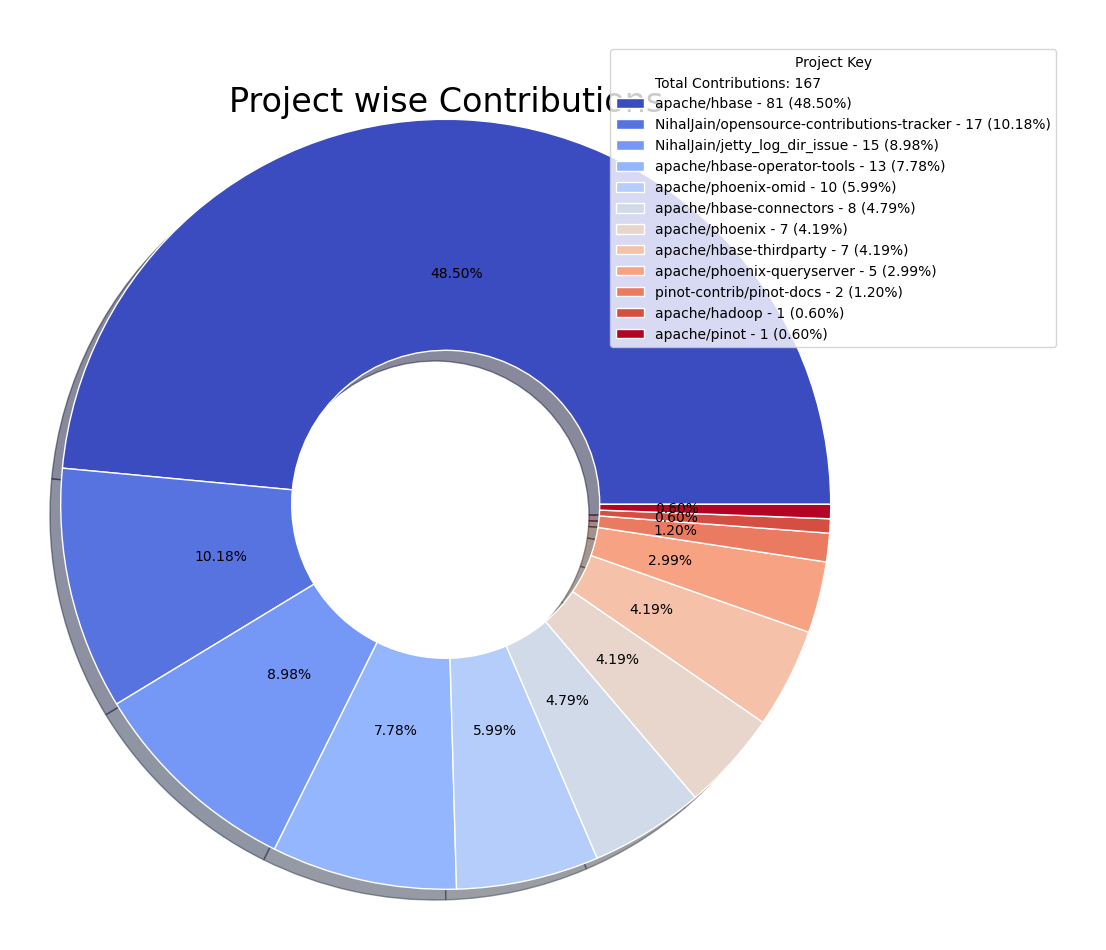
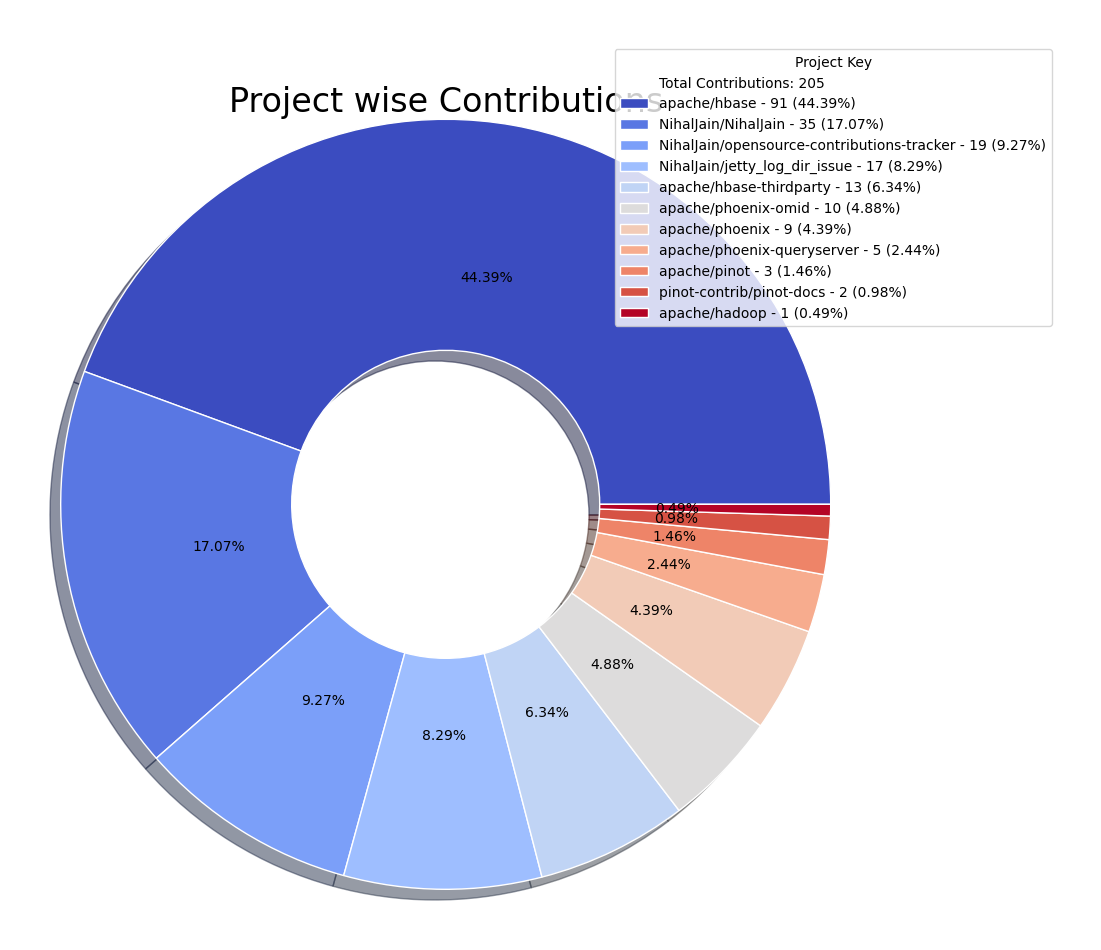
Run workflow and update to latest reports

diff --git a/output/github_contributions_report.md b/output/github_contributions_report.md
@@ -1,16 +1,16 @@
 # OpenSource Contributions Report
 
-Report auto-generated on: 2025-04-05 13:15:00
+Report auto-generated on: 2025-05-22 20:25:43
 
 ## Overall Summary
 
 | Metric | Value |
 |--------|-------|
-| Total number of projects | 12 |
-| Total number of repositories | 12 |
-| Total number of contributions | 167 |
-| Number of commits | 157 |
-| Number of pull requests (Open) | 10 |
+| Total number of projects | 11 |
+| Total number of repositories | 11 |
+| Total number of contributions | 205 |
+| Number of commits | 183 |
+| Number of pull requests (Open) | 22 |
 
 <div style="display: flex; justify-content: space-around;">
   <img src="project_wise_contribution.png" alt="Project wise Contributions" style="width:45%;">
@@ -21,38 +21,36 @@ Report auto-generated on: 2025-04-05 13:15:00
 
 | Project Key | Repositories | Users | Commits | Pull Requests (Open) | Overall Contribution |
 |--------------|--------------|-------|---------|----------------------|----------------------|
-| apache/hbase | <img src='https://avatars.githubusercontent.com/u/47359?v=4' width='12' height='12'> [apache/hbase](https://github.com/apache/hbase) | <img src='https://avatars.githubusercontent.com/u/3429351?v=4' width='12' height='12'> [Nihal Jain](https://github.com/NihalJain) | 76 | 5 | 81 |
-| NihalJain/opensource-contributions-tracker | <img src='https://avatars.githubusercontent.com/u/3429351?v=4' width='12' height='12'> [NihalJain/opensource-contributions-tracker](https://github.com/NihalJain/opensource-contributions-tracker) | <img src='https://avatars.githubusercontent.com/u/3429351?v=4' width='12' height='12'> [Nihal Jain](https://github.com/NihalJain) | 17 | 0 | 17 |
-| NihalJain/jetty_log_dir_issue | <img src='https://avatars.githubusercontent.com/u/3429351?v=4' width='12' height='12'> [NihalJain/jetty_log_dir_issue](https://github.com/NihalJain/jetty_log_dir_issue) | <img src='https://avatars.githubusercontent.com/u/3429351?v=4' width='12' height='12'> [Nihal Jain](https://github.com/NihalJain) | 15 | 0 | 15 |
-| apache/hbase-operator-tools | <img src='https://avatars.githubusercontent.com/u/47359?v=4' width='12' height='12'> [apache/hbase-operator-tools](https://github.com/apache/hbase-operator-tools) | <img src='https://avatars.githubusercontent.com/u/3429351?v=4' width='12' height='12'> [Nihal Jain](https://github.com/NihalJain) | 13 | 0 | 13 |
+| apache/hbase | <img src='https://avatars.githubusercontent.com/u/47359?v=4' width='12' height='12'> [apache/hbase](https://github.com/apache/hbase) | <img src='https://avatars.githubusercontent.com/u/3429351?v=4' width='12' height='12'> [Nihal Jain](https://github.com/NihalJain) | 77 | 14 | 91 |
+| NihalJain/NihalJain | <img src='https://avatars.githubusercontent.com/u/3429351?v=4' width='12' height='12'> [NihalJain/NihalJain](https://github.com/NihalJain/NihalJain) | <img src='https://avatars.githubusercontent.com/u/3429351?v=4' width='12' height='12'> [Nihal Jain](https://github.com/NihalJain) | 35 | 0 | 35 |
+| NihalJain/opensource-contributions-tracker | <img src='https://avatars.githubusercontent.com/u/3429351?v=4' width='12' height='12'> [NihalJain/opensource-contributions-tracker](https://github.com/NihalJain/opensource-contributions-tracker) | <img src='https://avatars.githubusercontent.com/u/3429351?v=4' width='12' height='12'> [Nihal Jain](https://github.com/NihalJain) | 18 | 1 | 19 |
+| NihalJain/jetty_log_dir_issue | <img src='https://avatars.githubusercontent.com/u/3429351?v=4' width='12' height='12'> [NihalJain/jetty_log_dir_issue](https://github.com/NihalJain/jetty_log_dir_issue) | <img src='https://avatars.githubusercontent.com/u/3429351?v=4' width='12' height='12'> [Nihal Jain](https://github.com/NihalJain) | 16 | 1 | 17 |
+| apache/hbase-thirdparty | <img src='https://avatars.githubusercontent.com/u/47359?v=4' width='12' height='12'> [apache/hbase-thirdparty](https://github.com/apache/hbase-thirdparty) | <img src='https://avatars.githubusercontent.com/u/3429351?v=4' width='12' height='12'> [Nihal Jain](https://github.com/NihalJain) | 12 | 1 | 13 |
 | apache/phoenix-omid | <img src='https://avatars.githubusercontent.com/u/47359?v=4' width='12' height='12'> [apache/phoenix-omid](https://github.com/apache/phoenix-omid) | <img src='https://avatars.githubusercontent.com/u/3429351?v=4' width='12' height='12'> [Nihal Jain](https://github.com/NihalJain) | 10 | 0 | 10 |
-| apache/hbase-connectors | <img src='https://avatars.githubusercontent.com/u/47359?v=4' width='12' height='12'> [apache/hbase-connectors](https://github.com/apache/hbase-connectors) | <img src='https://avatars.githubusercontent.com/u/3429351?v=4' width='12' height='12'> [Nihal Jain](https://github.com/NihalJain) | 7 | 1 | 8 |
-| apache/phoenix | <img src='https://avatars.githubusercontent.com/u/47359?v=4' width='12' height='12'> [apache/phoenix](https://github.com/apache/phoenix) | <img src='https://avatars.githubusercontent.com/u/3429351?v=4' width='12' height='12'> [Nihal Jain](https://github.com/NihalJain) | 5 | 2 | 7 |
-| apache/hbase-thirdparty | <img src='https://avatars.githubusercontent.com/u/47359?v=4' width='12' height='12'> [apache/hbase-thirdparty](https://github.com/apache/hbase-thirdparty) | <img src='https://avatars.githubusercontent.com/u/3429351?v=4' width='12' height='12'> [Nihal Jain](https://github.com/NihalJain) | 5 | 2 | 7 |
+| apache/phoenix | <img src='https://avatars.githubusercontent.com/u/47359?v=4' width='12' height='12'> [apache/phoenix](https://github.com/apache/phoenix) | <img src='https://avatars.githubusercontent.com/u/3429351?v=4' width='12' height='12'> [Nihal Jain](https://github.com/NihalJain) | 6 | 3 | 9 |
 | apache/phoenix-queryserver | <img src='https://avatars.githubusercontent.com/u/47359?v=4' width='12' height='12'> [apache/phoenix-queryserver](https://github.com/apache/phoenix-queryserver) | <img src='https://avatars.githubusercontent.com/u/3429351?v=4' width='12' height='12'> [Nihal Jain](https://github.com/NihalJain) | 5 | 0 | 5 |
+| apache/pinot | <img src='https://avatars.githubusercontent.com/u/47359?v=4' width='12' height='12'> [apache/pinot](https://github.com/apache/pinot) | <img src='https://avatars.githubusercontent.com/u/3429351?v=4' width='12' height='12'> [Nihal Jain](https://github.com/NihalJain) | 1 | 2 | 3 |
 | pinot-contrib/pinot-docs | <img src='https://avatars.githubusercontent.com/u/62676312?v=4' width='12' height='12'> [pinot-contrib/pinot-docs](https://github.com/pinot-contrib/pinot-docs) | <img src='https://avatars.githubusercontent.com/u/3429351?v=4' width='12' height='12'> [Nihal Jain](https://github.com/NihalJain) | 2 | 0 | 2 |
 | apache/hadoop | <img src='https://avatars.githubusercontent.com/u/47359?v=4' width='12' height='12'> [apache/hadoop](https://github.com/apache/hadoop) | <img src='https://avatars.githubusercontent.com/u/3429351?v=4' width='12' height='12'> [Nihal Jain](https://github.com/NihalJain) | 1 | 0 | 1 |
-| apache/pinot | <img src='https://avatars.githubusercontent.com/u/47359?v=4' width='12' height='12'> [apache/pinot](https://github.com/apache/pinot) | <img src='https://avatars.githubusercontent.com/u/3429351?v=4' width='12' height='12'> [Nihal Jain](https://github.com/NihalJain) | 1 | 0 | 1 |
 
 ## Summary of Contributions by each user
 
 | User | Repositories | Commits | Pull Requests (Open) | Overall Contribution |
 |------|--------------|---------|----------------------|----------------------|
-| <img src='https://avatars.githubusercontent.com/u/3429351?v=4' width='12' height='12'> [Nihal Jain](https://github.com/NihalJain) | <img src='https://avatars.githubusercontent.com/u/3429351?v=4' width='12' height='12'> [NihalJain/jetty_log_dir_issue](https://github.com/NihalJain/jetty_log_dir_issue)<br><img src='https://avatars.githubusercontent.com/u/3429351?v=4' width='12' height='12'> [NihalJain/opensource-contributions-tracker](https://github.com/NihalJain/opensource-contributions-tracker)<br><img src='https://avatars.githubusercontent.com/u/47359?v=4' width='12' height='12'> [apache/hadoop](https://github.com/apache/hadoop)<br><img src='https://avatars.githubusercontent.com/u/47359?v=4' width='12' height='12'> [apache/hbase](https://github.com/apache/hbase)<br><img src='https://avatars.githubusercontent.com/u/47359?v=4' width='12' height='12'> [apache/hbase-connectors](https://github.com/apache/hbase-connectors)<br><img src='https://avatars.githubusercontent.com/u/47359?v=4' width='12' height='12'> [apache/hbase-operator-tools](https://github.com/apache/hbase-operator-tools)<br><img src='https://avatars.githubusercontent.com/u/47359?v=4' width='12' height='12'> [apache/hbase-thirdparty](https://github.com/apache/hbase-thirdparty)<br><img src='https://avatars.githubusercontent.com/u/47359?v=4' width='12' height='12'> [apache/phoenix](https://github.com/apache/phoenix)<br><img src='https://avatars.githubusercontent.com/u/47359?v=4' width='12' height='12'> [apache/phoenix-omid](https://github.com/apache/phoenix-omid)<br><img src='https://avatars.githubusercontent.com/u/47359?v=4' width='12' height='12'> [apache/phoenix-queryserver](https://github.com/apache/phoenix-queryserver)<br><img src='https://avatars.githubusercontent.com/u/47359?v=4' width='12' height='12'> [apache/pinot](https://github.com/apache/pinot)<br><img src='https://avatars.githubusercontent.com/u/62676312?v=4' width='12' height='12'> [pinot-contrib/pinot-docs](https://github.com/pinot-contrib/pinot-docs) | 157 | 10 | 167 |
+| <img src='https://avatars.githubusercontent.com/u/3429351?v=4' width='12' height='12'> [Nihal Jain](https://github.com/NihalJain) | <img src='https://avatars.githubusercontent.com/u/3429351?v=4' width='12' height='12'> [NihalJain/NihalJain](https://github.com/NihalJain/NihalJain)<br><img src='https://avatars.githubusercontent.com/u/3429351?v=4' width='12' height='12'> [NihalJain/jetty_log_dir_issue](https://github.com/NihalJain/jetty_log_dir_issue)<br><img src='https://avatars.githubusercontent.com/u/3429351?v=4' width='12' height='12'> [NihalJain/opensource-contributions-tracker](https://github.com/NihalJain/opensource-contributions-tracker)<br><img src='https://avatars.githubusercontent.com/u/47359?v=4' width='12' height='12'> [apache/hadoop](https://github.com/apache/hadoop)<br><img src='https://avatars.githubusercontent.com/u/47359?v=4' width='12' height='12'> [apache/hbase](https://github.com/apache/hbase)<br><img src='https://avatars.githubusercontent.com/u/47359?v=4' width='12' height='12'> [apache/hbase-thirdparty](https://github.com/apache/hbase-thirdparty)<br><img src='https://avatars.githubusercontent.com/u/47359?v=4' width='12' height='12'> [apache/phoenix](https://github.com/apache/phoenix)<br><img src='https://avatars.githubusercontent.com/u/47359?v=4' width='12' height='12'> [apache/phoenix-omid](https://github.com/apache/phoenix-omid)<br><img src='https://avatars.githubusercontent.com/u/47359?v=4' width='12' height='12'> [apache/phoenix-queryserver](https://github.com/apache/phoenix-queryserver)<br><img src='https://avatars.githubusercontent.com/u/47359?v=4' width='12' height='12'> [apache/pinot](https://github.com/apache/pinot)<br><img src='https://avatars.githubusercontent.com/u/62676312?v=4' width='12' height='12'> [pinot-contrib/pinot-docs](https://github.com/pinot-contrib/pinot-docs) | 183 | 22 | 205 |
 
 ## Detailed Contributions
 
 | Project Key | Repository | User | Commits | Pull Requests (Open) | Overall Contribution |
 |--------------|------------|------|---------|----------------------|----------------------|
-| apache/phoenix-omid | <img src='https://avatars.githubusercontent.com/u/47359?v=4' width='12' height='12'> [apache/phoenix-omid](https://github.com/apache/phoenix-omid) | <img src='https://avatars.githubusercontent.com/u/3429351?v=4' width='12' height='12'> [Nihal Jain](https://github.com/NihalJain) | 10 | 0 | 10 |
-| apache/hbase | <img src='https://avatars.githubusercontent.com/u/47359?v=4' width='12' height='12'> [apache/hbase](https://github.com/apache/hbase) | <img src='https://avatars.githubusercontent.com/u/3429351?v=4' width='12' height='12'> [Nihal Jain](https://github.com/NihalJain) | 76 | 5 | 81 |
-| apache/pinot | <img src='https://avatars.githubusercontent.com/u/47359?v=4' width='12' height='12'> [apache/pinot](https://github.com/apache/pinot) | <img src='https://avatars.githubusercontent.com/u/3429351?v=4' width='12' height='12'> [Nihal Jain](https://github.com/NihalJain) | 1 | 0 | 1 |
-| apache/hadoop | <img src='https://avatars.githubusercontent.com/u/47359?v=4' width='12' height='12'> [apache/hadoop](https://github.com/apache/hadoop) | <img src='https://avatars.githubusercontent.com/u/3429351?v=4' width='12' height='12'> [Nihal Jain](https://github.com/NihalJain) | 1 | 0 | 1 |
-| apache/phoenix | <img src='https://avatars.githubusercontent.com/u/47359?v=4' width='12' height='12'> [apache/phoenix](https://github.com/apache/phoenix) | <img src='https://avatars.githubusercontent.com/u/3429351?v=4' width='12' height='12'> [Nihal Jain](https://github.com/NihalJain) | 5 | 2 | 7 |
-| apache/hbase-connectors | <img src='https://avatars.githubusercontent.com/u/47359?v=4' width='12' height='12'> [apache/hbase-connectors](https://github.com/apache/hbase-connectors) | <img src='https://avatars.githubusercontent.com/u/3429351?v=4' width='12' height='12'> [Nihal Jain](https://github.com/NihalJain) | 7 | 1 | 8 |
-| apache/phoenix-queryserver | <img src='https://avatars.githubusercontent.com/u/47359?v=4' width='12' height='12'> [apache/phoenix-queryserver](https://github.com/apache/phoenix-queryserver) | <img src='https://avatars.githubusercontent.com/u/3429351?v=4' width='12' height='12'> [Nihal Jain](https://github.com/NihalJain) | 5 | 0 | 5 |
-| NihalJain/opensource-contributions-tracker | <img src='https://avatars.githubusercontent.com/u/3429351?v=4' width='12' height='12'> [NihalJain/opensource-contributions-tracker](https://github.com/NihalJain/opensource-contributions-tracker) | <img src='https://avatars.githubusercontent.com/u/3429351?v=4' width='12' height='12'> [Nihal Jain](https://github.com/NihalJain) | 17 | 0 | 17 |
+| apache/hbase | <img src='https://avatars.githubusercontent.com/u/47359?v=4' width='12' height='12'> [apache/hbase](https://github.com/apache/hbase) | <img src='https://avatars.githubusercontent.com/u/3429351?v=4' width='12' height='12'> [Nihal Jain](https://github.com/NihalJain) | 77 | 14 | 91 |
+| apache/pinot | <img src='https://avatars.githubusercontent.com/u/47359?v=4' width='12' height='12'> [apache/pinot](https://github.com/apache/pinot) | <img src='https://avatars.githubusercontent.com/u/3429351?v=4' width='12' height='12'> [Nihal Jain](https://github.com/NihalJain) | 1 | 2 | 3 |
 | pinot-contrib/pinot-docs | <img src='https://avatars.githubusercontent.com/u/62676312?v=4' width='12' height='12'> [pinot-contrib/pinot-docs](https://github.com/pinot-contrib/pinot-docs) | <img src='https://avatars.githubusercontent.com/u/3429351?v=4' width='12' height='12'> [Nihal Jain](https://github.com/NihalJain) | 2 | 0 | 2 |
-| apache/hbase-thirdparty | <img src='https://avatars.githubusercontent.com/u/47359?v=4' width='12' height='12'> [apache/hbase-thirdparty](https://github.com/apache/hbase-thirdparty) | <img src='https://avatars.githubusercontent.com/u/3429351?v=4' width='12' height='12'> [Nihal Jain](https://github.com/NihalJain) | 5 | 2 | 7 |
-| NihalJain/jetty_log_dir_issue | <img src='https://avatars.githubusercontent.com/u/3429351?v=4' width='12' height='12'> [NihalJain/jetty_log_dir_issue](https://github.com/NihalJain/jetty_log_dir_issue) | <img src='https://avatars.githubusercontent.com/u/3429351?v=4' width='12' height='12'> [Nihal Jain](https://github.com/NihalJain) | 15 | 0 | 15 |
-| apache/hbase-operator-tools | <img src='https://avatars.githubusercontent.com/u/47359?v=4' width='12' height='12'> [apache/hbase-operator-tools](https://github.com/apache/hbase-operator-tools) | <img src='https://avatars.githubusercontent.com/u/3429351?v=4' width='12' height='12'> [Nihal Jain](https://github.com/NihalJain) | 13 | 0 | 13 |
+| apache/hadoop | <img src='https://avatars.githubusercontent.com/u/47359?v=4' width='12' height='12'> [apache/hadoop](https://github.com/apache/hadoop) | <img src='https://avatars.githubusercontent.com/u/3429351?v=4' width='12' height='12'> [Nihal Jain](https://github.com/NihalJain) | 1 | 0 | 1 |
+| NihalJain/opensource-contributions-tracker | <img src='https://avatars.githubusercontent.com/u/3429351?v=4' width='12' height='12'> [NihalJain/opensource-contributions-tracker](https://github.com/NihalJain/opensource-contributions-tracker) | <img src='https://avatars.githubusercontent.com/u/3429351?v=4' width='12' height='12'> [Nihal Jain](https://github.com/NihalJain) | 18 | 1 | 19 |
+| apache/phoenix-queryserver | <img src='https://avatars.githubusercontent.com/u/47359?v=4' width='12' height='12'> [apache/phoenix-queryserver](https://github.com/apache/phoenix-queryserver) | <img src='https://avatars.githubusercontent.com/u/3429351?v=4' width='12' height='12'> [Nihal Jain](https://github.com/NihalJain) | 5 | 0 | 5 |
+| NihalJain/jetty_log_dir_issue | <img src='https://avatars.githubusercontent.com/u/3429351?v=4' width='12' height='12'> [NihalJain/jetty_log_dir_issue](https://github.com/NihalJain/jetty_log_dir_issue) | <img src='https://avatars.githubusercontent.com/u/3429351?v=4' width='12' height='12'> [Nihal Jain](https://github.com/NihalJain) | 16 | 1 | 17 |
+| apache/hbase-thirdparty | <img src='https://avatars.githubusercontent.com/u/47359?v=4' width='12' height='12'> [apache/hbase-thirdparty](https://github.com/apache/hbase-thirdparty) | <img src='https://avatars.githubusercontent.com/u/3429351?v=4' width='12' height='12'> [Nihal Jain](https://github.com/NihalJain) | 12 | 1 | 13 |
+| apache/phoenix | <img src='https://avatars.githubusercontent.com/u/47359?v=4' width='12' height='12'> [apache/phoenix](https://github.com/apache/phoenix) | <img src='https://avatars.githubusercontent.com/u/3429351?v=4' width='12' height='12'> [Nihal Jain](https://github.com/NihalJain) | 6 | 3 | 9 |
+| NihalJain/NihalJain | <img src='https://avatars.githubusercontent.com/u/3429351?v=4' width='12' height='12'> [NihalJain/NihalJain](https://github.com/NihalJain/NihalJain) | <img src='https://avatars.githubusercontent.com/u/3429351?v=4' width='12' height='12'> [Nihal Jain](https://github.com/NihalJain) | 35 | 0 | 35 |
+| apache/phoenix-omid | <img src='https://avatars.githubusercontent.com/u/47359?v=4' width='12' height='12'> [apache/phoenix-omid](https://github.com/apache/phoenix-omid) | <img src='https://avatars.githubusercontent.com/u/3429351?v=4' width='12' height='12'> [Nihal Jain](https://github.com/NihalJain) | 10 | 0 | 10 |
